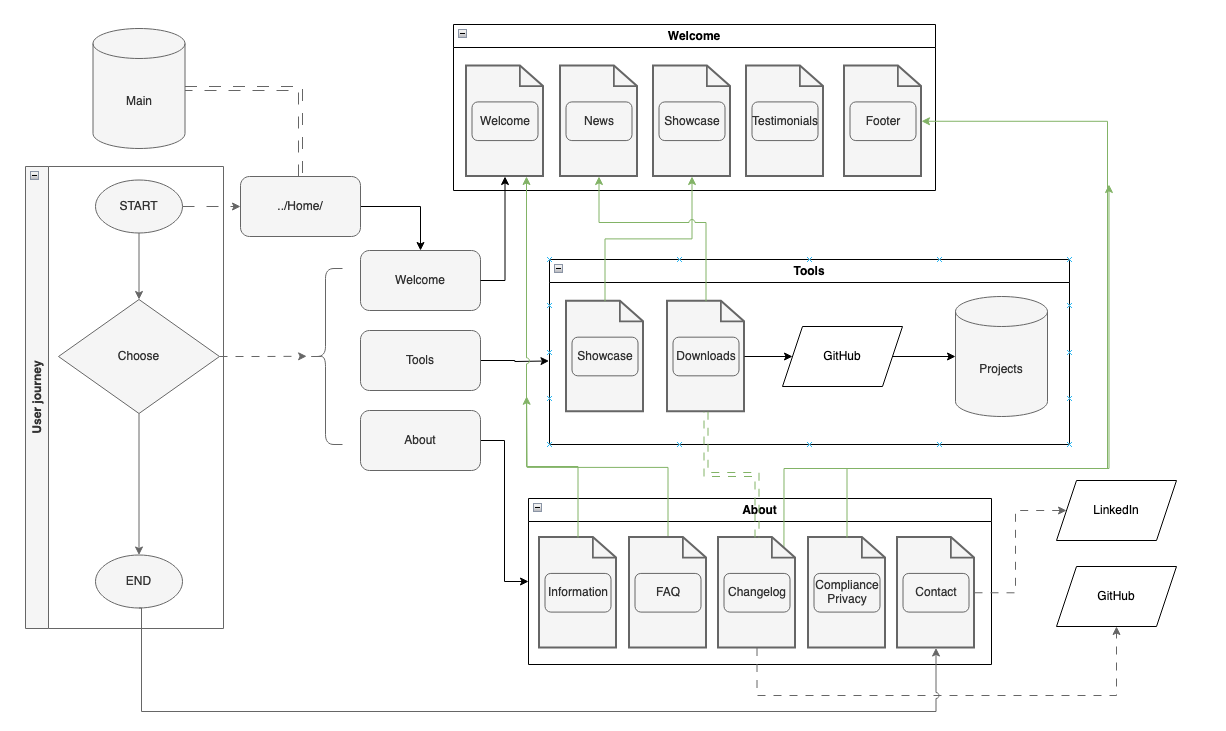
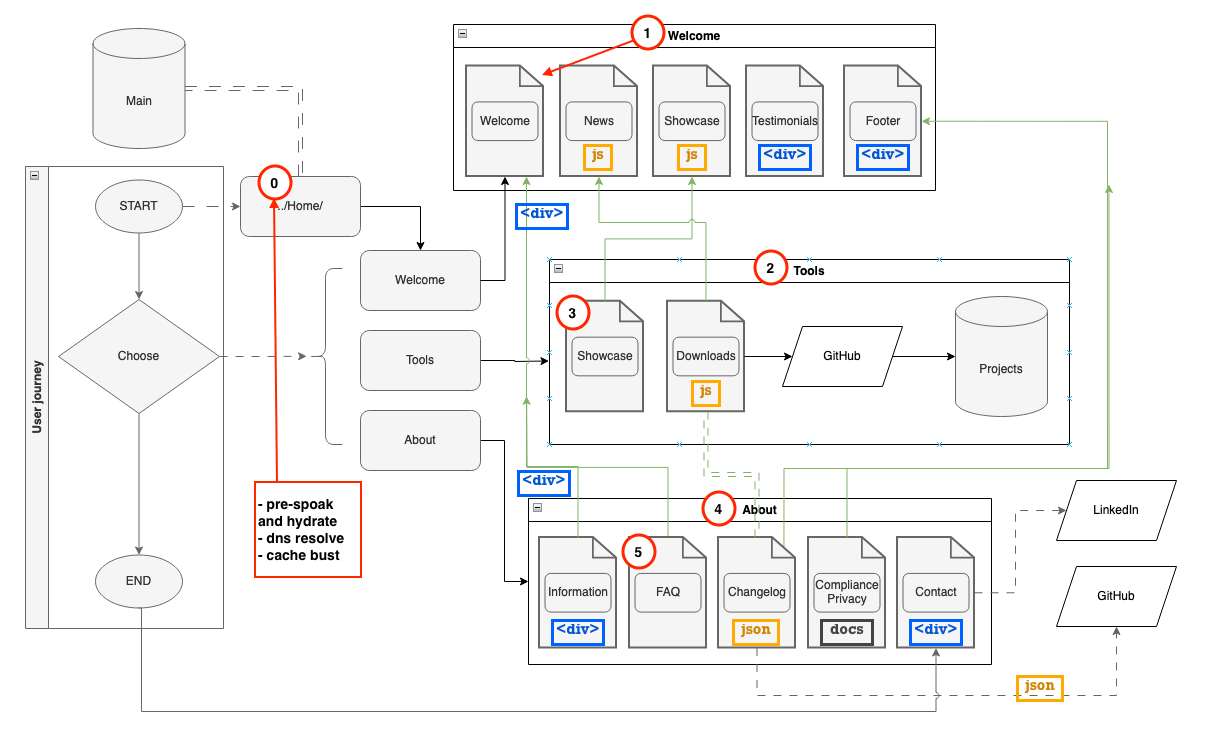
add html review, add clarity notes on sitemap

diff --git a/COMP267/Unit 2/learningDiary.rst b/COMP267/Unit 2/learningDiary.rst
@@ -11,7 +11,7 @@ Unit 2 HTML site building learning diary
 Summary
 ========
 
-   *"Despite working with HTML 4.01 in the past, I chose to use HTML5 to benefit from deeper learning. I'm optimistic about the standard, with things like default canvas graphics API, the native support for features like .svg, <audio> and <video> tags, the strong focus on the DOM, mobile optimization, and form controls."*
+   *"Despite working with HTML 4.01 in the past, I chose to use HTML5 to benefit from deeper learning, which required me to read a lot of W3 and MDN docs."*
 
 
 The work
@@ -27,8 +27,8 @@ The work
 
 3. Prepare the site HTML.
 
-   - Create 15 HTML pages, compliant with HTML5
-   - Several images, custom made
+   - Create my HTML pages, compliant with HTML5
+   - Add several images, custom made
    - Hyperlinks between all the pages using relative URLs
    - Sufficient text for three heading styles
    - Several unordered lists
@@ -49,8 +49,122 @@ Assignment 2 submission
 Review of sample.html
 ----------------------
 
-.. Caution::
-   Nothing to see here yet. I'm still working this unit. Check back soon.
+Overall, `sample1.html <..attachments/src/sample1.html>`_ is missing a lot of closing tags and has poor structure and readability including lacking indentation and semantic writing. In terms of accessibility, the file is missing meaningful content, which could be optimized in meta tagsets. The document lacks roles and attributes, which would help accessibility. 
+
+The .html file is using inline .css styling, which could be better left to a stylesheet. It may be better to use span tags in those areas.
+
+`sample2.html <..attachments/src/sample2.html>`_ seems to be empty, but is at least declared correctly. In my opinion, it would be better to move this to html5, but it appears the purpose for sample2.html is to allow sample1.html to demonstrate linking.
+
+
+.. code-block:: html
+   :caption: Undeclared/unspecified DOCTYPE -- missing encoding and responsive declaration
+   :linenos:
+
+   <html>
+   <head>
+   ...
+
+
+.. code-block:: html
+   :caption: Missing title and meta info.
+   :linenos:
+
+   <html>
+   <head>
+   <title></title>
+   </head>
+   ...
+
+.. code-block:: html
+   :caption: Para tag is not closed. h1 is declared in wrong spot, move to meta, and lowercase for best practice.
+   :linenos:
+
+   <body>
+   <H1> This page is poorly written</H1>
+   <p>
+   There are many things wrong with this page. It's not so bad that it won't work on most browsers, but it has many things that could be written much better.
+   Your job is to use this code as a starting point and improve it.
+   ...
+
+.. code-block:: html
+   :caption: h2 missing closing tag, uppercase. Para tag missing closing, uppercase.
+   :linenos:
+
+   ...
+   that could be written much better.
+   Your job is to use this code as a starting point and improve it.
+
+   <H2>You could, of course, cheat!
+   <P>There is nothing wrong with using an HTML cleaner
+   ...
+
+.. code-block:: html
+   :caption: inline styles.
+   :linenos:
+
+   ...
+   you will find it <i>much</i> harder later on.
+   ...
+
+.. code-block:: html
+   :caption: h3 uppercase, not closed. a href is closed incorrectly.
+   :linenos:
+
+   ...
+   <H3>
+   Adding links
+   <p><a href="sample2.html">This is a link to the other page in this badly written pair of pages</a>).
+   ...
+
+.. code-block:: html
+   :caption: missing roles in img tag, img tag not closed properly. Para tag not closed.
+   :linenos:
+
+   ...
+   <h3>Using pictures</h3>
+   <p>Pictures are not a part of a web page - 
+   ...
+   <img src=aulogo.gif>
+   ...
+
+.. No highlighting. Lex linting doesn't know what to do with the tags in sample.
+.. code-block::
+   :caption: ul tags are not closed properly or indented.
+   :linenos:
+
+   ...
+   <h3>Making lists...
+   <ul>...<ul<li>indented<ol><li>numbered<li>like this</li></ol></ul><li> and more</li></ul>
+   ...
+
+.. code-block:: html
+   :caption: Table tags not closed properly, h3 is not closed.
+   :linenos:
+
+   ...
+   <h3>Making tables
+   <table border=1><tr><td>Tables should only be used for tabular data<td>and never for layout</tr>
+   <tr><td>but many people do <td>use them for layout</tr>
+   <tr><td colspan=2>It's not good for accessibility. Stylesheets work much better for this</td>
+   </tr>
+   </table>
+   ...
+
+.. code-block:: html
+   :caption: sample 2 is declared better, but empty. Could be improved by moving to html5
+   :linenos:
+
+   <!DOCTYPE html PUBLIC "-//W3C//DTD XHTML 1.0 Transitional//EN" "http://www.w3.org/TR/xhtml1/DTD/xhtml1-transitional.dtd">
+   <html xmlns="http://www.w3.org/1999/xhtml">
+   <head>
+   <meta http-equiv="Content-Type" content="text/html; charset=UTF-8" />
+   <title>Untitled Document</title>
+   </head>
+
+   <body>
+   </body>
+   </html>
+
 
 
 Pages versus personas
@@ -90,9 +204,11 @@ What went right and wrong
 
 Despite working with HTML 4.01 in the past, I chose to use HTML5 to benefit from deeper learning. I'm optimistic about the default canvas graphics API in HTML5, the native support for features like .svg, <audio> and <video> tags, the strong focus on the DOM, mobile optimization, and form controls. 
 
+This unit required me to read a lot of W3 and MDN docs, which is good because now I understand a range of html tags and best practices, like semantic writing and ARIA compliance.
+
 If I were to do this unit again, I would focus on completing *just* enough to submit and move on to Unit 3, rather than completing all of my site .html pages. 
 
-The reason I think this would have been better is that it would have allowed me to get to the later units more quickly, and discover what might need to change sooner. 
+The reason I think this would have been better is that it would have allowed me to get to the later units more quickly, and discover what might need to change sooner. I'm sure there will be needed changes.
 
 Normally, I program both side-by-side, and doing all of the .html first might become problematic later and require more technical debt.
 
@@ -103,7 +219,7 @@ Related topics
 .. link related reading or topics
 
 + :ref:`Unit 0 learning diary <unit0-ref>`
-+ :ref:`Unit 0 learning diary <unit1-ref>`
++ :ref:`Unit 1 learning diary <unit1-ref>`
 
 
 Additional reading

diff --git a/COMP267/Unit 1/learningDiary.rst b/COMP267/Unit 1/learningDiary.rst
@@ -130,8 +130,8 @@ My site map is available here as both `.xml <https://github.com/hectorbarquero/u
 It contains:
 
 + The typical user journey
-+ The navigation choices (3)
-+ Pages within the navigation choices (12)
++ The navigation choices
++ Pages within the navigation choices
 + The connections between some, where an excerpt exists
 + The external flows to other technologies powering some of the features, which the AU server can't power reliably
 
